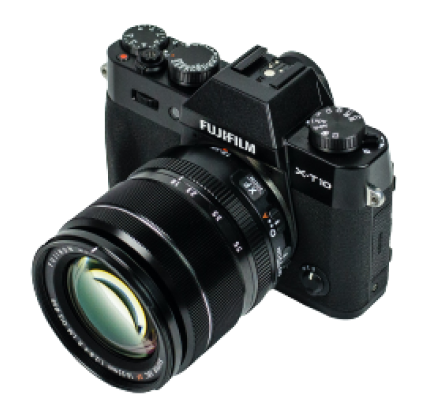
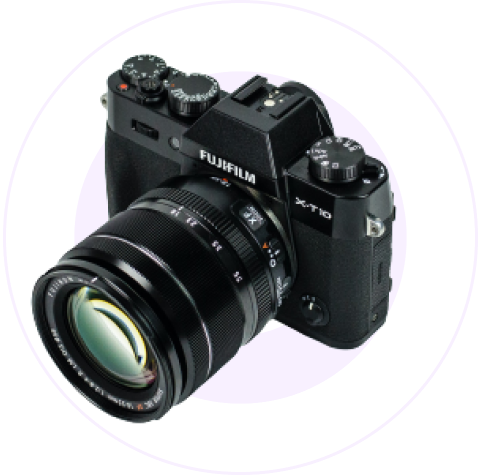
hero section css added

Changed region(s): [[0.0591, 0.058, 0.9159, 0.9565]]

diff --git a/style.css b/style.css
@@ -11,3 +11,125 @@
 body {
     font-family: 'Poppins', sans-serif;
 }
+
+/* Header */
+.header_container {
+    width: 990px;
+    margin: 0 auto;
+    max-width: 100%;
+    padding: 0 1rem;
+}
+
+.header_content {
+    display: flex;
+    align-items: center;
+    justify-content: space-between;
+    padding: 2rem 0;
+}
+
+ul.nav_link {
+    display: flex;
+    list-style: none;
+    gap: 2rem;
+    align-items: center;
+}
+
+ul.nav_link a {
+    text-decoration: none;
+    color: #3A3A3A;
+    font-weight: 500;
+}
+
+.logo h2 {
+    color: #3A3A3A;
+}
+
+.logo span {
+    color: #e02c6d;
+}
+ul.nav_link a>i {
+    font-size: 1.3rem;
+}
+.hamburger_menu {
+    display: none;
+}
+.hamburger_menu * {
+    background: #1B1B1B;
+    height: 3px;
+    width: 1.8rem;
+    border-radius: 99px;
+}
+.hamburger_menu *:nth-child(2){
+    margin: .3rem 0;
+}
+.cart_plus-icon {
+    display: none;
+}
+/* Hero section */
+.hero_content {
+    display: flex;
+    align-items: center;
+    justify-content: space-between;
+}
+
+.hero_left {
+    width: 50%;
+    display: grid;
+    gap: 2rem;
+}
+
+.hero_right {
+    width: 50%;
+    text-align: right;
+}
+
+.hero_right img {
+    width: 70%;
+}
+
+a.btn {
+    background: #E02C6D;
+    color: #fff;
+    padding: .6rem 1.8rem;
+    font-weight: 500;
+    text-decoration: none;
+    display: flex;
+    align-items: center;
+    justify-content: center;
+    width: 210px;
+}
+
+a.btn i {
+    margin-left: .8rem;
+    font-size: 1.2rem;
+    display: flex;
+}
+
+.hero_left p {
+    font-size: .9rem;
+}
+.prebook_btn {
+    border-radius: 999px;
+}
+/* Hero section end */
+
+/* Header responsive */
+@media screen and (max-width: 576px) {
+  
+    .hamburger_menu {
+        display: block;
+    }
+    #nav {
+        display: none;
+    }
+    .cart_plus-icon {
+        display: block;
+        font-size: 2rem;
+    }
+    .logo h2 {
+        font-size: 2rem;
+    }
+}
+
+
+/* Header end */

diff --git a/index.html b/index.html
@@ -16,7 +16,15 @@
     <!-- Header -->
     <header id="header">
         <div class="header_container">
+            <!-- Logo and Menu -->
             <div class="header_content">
+                <!-- Hamburger Menu -->
+                <div class="hamburger_menu">
+                    <div></div>
+                    <div></div>
+                    <div></div>
+                </div>
+
                 <!-- Logo -->
                 <div class="logo">
                     <h2>Influ<span>Pro</span></h2>
@@ -33,6 +41,31 @@
                         <li><a href="#cart"><i class="bi bi-cart-plus"></i></a></li>
                     </ul>
                 </nav>
+
+                <!-- Cart -->
+                <span class="cart_plus-icon"><i class="bi bi-cart-plus"></i></span>
+            </div>
+
+            <!-- Hero section -->
+            <div id="hero">
+                <div class="hero_content">
+                    <!-- Hero left side -->
+                    <div class="hero_left">
+                        <h1>Start your Journey as
+                            Influencer</h1>
+                        <p>Let them know the reasons why you're reaching out to them for a partnership, such as their posting style and personality</p>
+
+                        <a class="btn prebook_btn" href="#book-now">Prebook Now <i class="bi bi-arrow-right-circle"></i></a>
+                    </div>
+
+
+                    <!-- Hero right side -->
+                    <div class="hero_right">
+                        
+                        <img src="./media/images/main-camera.png" alt="camera">
+                    </div>
+
+                </div>
             </div>
         </div>
     </header>
